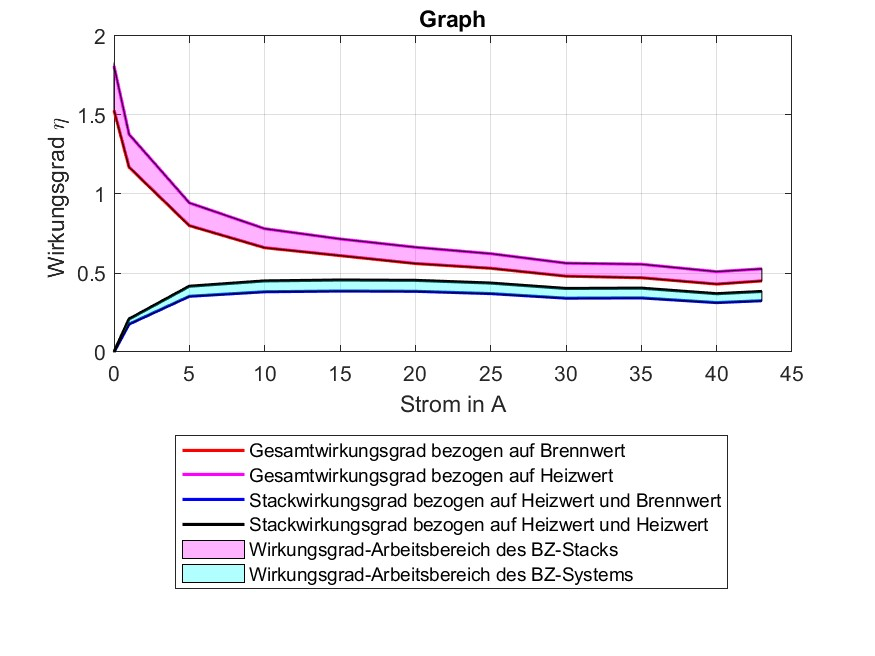
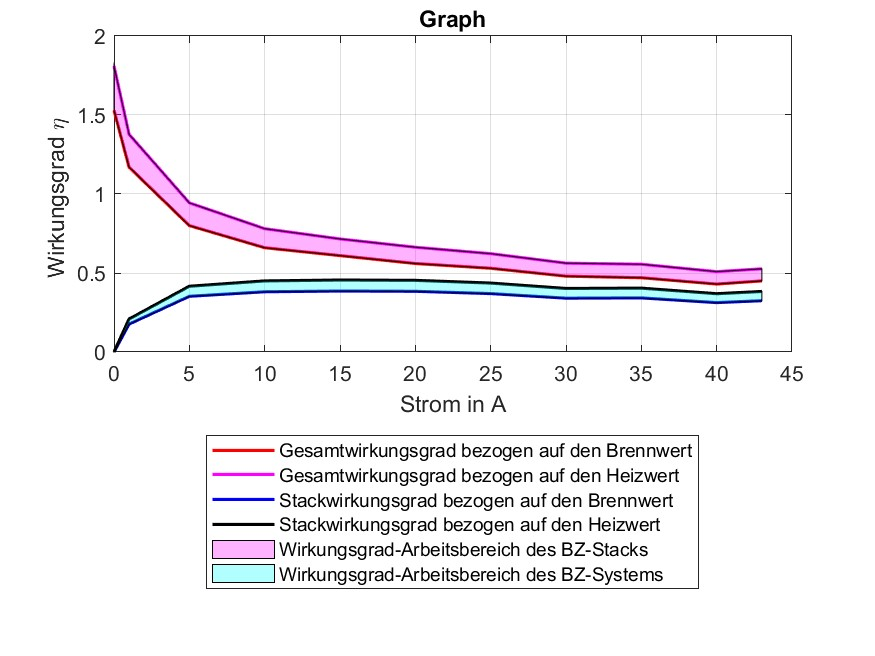
BZ mein Teil komplett

Changed region(s): [[0.2777, 0.6707, 0.8331, 0.9146], [0.1851, 0.7927, 0.2469, 0.9146], [0.216, 0.6707, 0.2469, 0.7622]]

diff --git a/BZ/Sub-Files/Auswertung.tex b/BZ/Sub-Files/Auswertung.tex
@@ -32,13 +32,20 @@ von Wasserstoff kann unser Wasserstoff Verbrauch nun in eine Leistung umgerechne
     \caption{Wirkungsgradverlauf für den Stack und das gesamte System.}
     \label{fig:plot3_26062023}
   \end{figure}
-\subsection{Diskussion der Kurven}
-\autoref{fig:plot1_26062023} und \autoref{fig:plot2_26062023} zeigt die unterschiedlichen Systemspannungen in Abhängigkeit des
-Verbraucherstroms. Zu erkennen ist die charakteristische Brennstoffzellen Spannungskennlinie (hier
-blau), die in \autoref{fig:plot2_26062023} genauer beschrieben wird. Die Stack- als auch die Verbraucherleistung
-steigen in Abhängigkeit des zugeführten Wasserstoffes proportional an. In den \autoref{fig:plot1_26062023} und \autoref{fig:plot2_26062023} ist weiterhin zu erkennen, dass bei einem Verbraucherstrom ab ca. 40 A, sowohl die Stack- als
+  Dabei entstehen die Wirkungsgradbänder bei Brennstoffzellen aufgrund von Verlusten in den Reaktionskinetiken, ohmschen Verlusten, Massentransportverlusten und den Betriebsbedingungen. Diese Faktoren beeinflussen die Leistungsfähigkeit und den Wirkungsgrad des Systems.
+   Die Art der Brennstoffzelle und die verwendeten Materialien spielen eine Rolle bei der Ausprägung der Wirkungsgradbänder. Unterschiedliche Betriebsparameter können zu variierenden Wirkungsgradbändern führen. Es gibt verschiedene Arten von Brennstoffzellen mit jeweils spezifischen Charakteristika und Herausforderungen im Hinblick auf Wirkungsgradbänder.
+   \subsection{Diskussion der Kurven}
+   \autoref{fig:plot1_26062023} und \autoref{fig:plot2_26062023} zeigt die unterschiedlichen Systemspannungen in Abhängigkeit des
+Verbraucherstrom und des Stack Stroms. Zu erkennen ist die charakteristische Brennstoffzellen Spannungskennlinie
+ (blau in \autoref{fig:plot2_26062023} und grau in  \autoref{fig:plot1_26062023}), die in \autoref{fig:plot2_26062023} genauer beschrieben wird. Die Stack- als auch die Verbraucherleistung
+steigen in Abhängigkeit des zugeführten Wasserstoffes proportional an. In den \autoref{fig:plot1_26062023} 
+und \autoref{fig:plot2_26062023} ist weiterhin zu erkennen, dass bei
+ steigendem Strom, sowohl die Stack- als
 auch die Verbraucherspannung leicht, absinken. Die lässt sich auch an dem Abfallen des
-Wirkungsgrades ablesen. \textbf{Es fehlt noch: warum entstehen Wirkungsgradbänder und text zu den bändern}
+Wirkungsgrades ablesen.
+\\ In \autoref{fig:plot3_26062023} ist der Verlauf des Wirkungsgrads des Stacks (schwarz und blau) sowie des Gesamtwirkungsgrads (rot und magenta) dargestellt. Der Wirkungsgrad wurde jeweils unter Verwendung des oberen und unteren Heizwerts berechnet, und die Toleranzbänder sind farblich gekennzeichnet. Es ist zu beachten, dass der Wirkungsgrad des Stacks deutlich über 100 Prozent liegt, was eigentlich nicht möglich ist und im krassen Gegensatz zum Verlauf des Gesamtwirkungsgrads steht.
+Der Grund dafür liegt darin, dass die Brennstoffzelle bei Inbetriebnahme die Membranen spült, um sie von Unreinheiten und Ablagerungen zu befreien. Dieses Spülen der Membranen erfolgt mit Wasserstoff, wodurch für einen bestimmten Zeitraum deutlich mehr Wasserstoff zur Verfügung steht. Dadurch beginnt die Zellreaktion, bevor eine Leistungsabnahme des Verbrauchers eintritt. Dies führt zu den beschriebenen Wirkungsgraden des Stacks, die während des Startvorgangs über 1 liegen.
+\\
 \subsection{}
 \subsection{Teillastverhalten}
 
